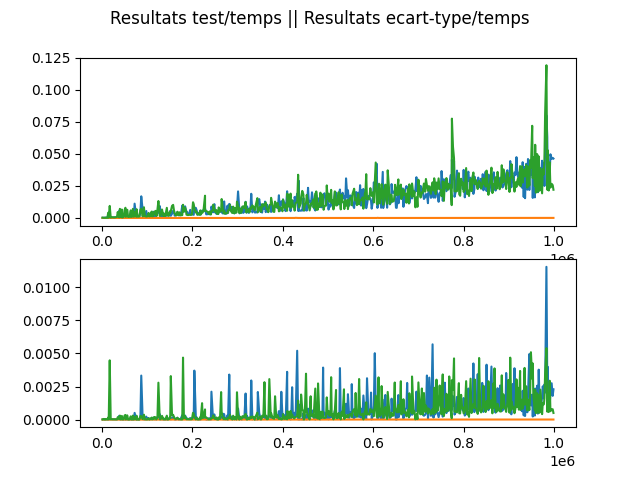
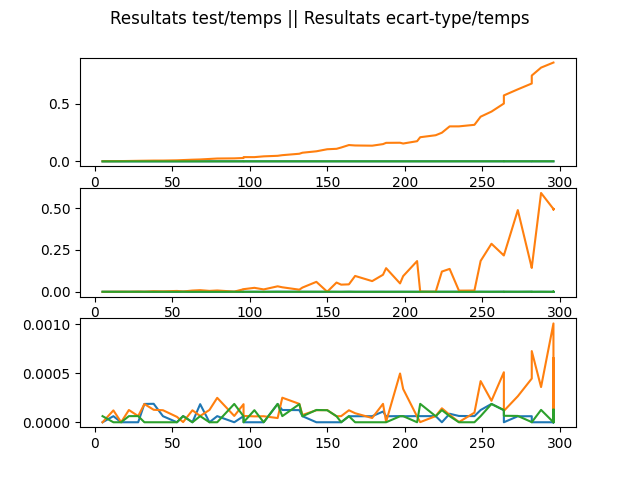
Affichages lissés
Les affichages sont lissés, paramètres de lissages dans la dernière partie de main.py
Pour l'instant j'utilise ma fonction essaisucc, mais les deux versions sont interchangeable

diff --git a/main.py b/main.py
@@ -2,6 +2,7 @@
 import Arbre
 import constantes
 import time
+import copy
 import matplotlib.pyplot as plt
 
 A = Arbre.Arbre
@@ -61,6 +62,72 @@ def essaiSucc(a, N, solution=[]):
     return solution
 
 
+nmax = -1
+XList = []
+def essaissuccessifsOPT_exe2(M):
+    sumc = 0
+    X = [0, 0, 0, 0, 0, 0, 0, 0]
+    n = 0
+    #n défini le nombre de pièces utilisées pour arriver à la somme finale
+
+    def essaissuccessifsOPT(i, X, sumc, n):
+
+        global nmax
+        #print("entering function with values i =",i,', X=',X,", sumc = ",sumc,", n =",n,", nmax =",nmax)
+
+        #parcours de la liste euroTab par index :
+        if(sumc < M and i > 0):
+            #print("parcours en INDEX")
+            essaissuccessifsOPT(i-1, X, sumc, n)
+        else:
+            #soit nous sommes arrivés à la valeur recherchée
+            #soit nous sommes arrivés au bout de la liste euroTab
+            #soit aucun des deux cas précédents : on peut continuer à incrémenter le nombre de piece d'indice i
+            #il faut respectivement =1= mettre à jour nmax
+            if (sumc == M and (nmax > n or nmax == -1)):
+                nmax = n
+                #print("mise à jour de nmax avec nmax=",nmax)
+                #print("===================================== resultat trouvé : X=", X)
+                global XList
+                XList.append(X)
+            #else:
+                #print("reached end of INDEX tree with i=",i,', X=',X,", sumc = ",sumc,", n =",n,", nmax =",nmax,"->")
+
+        #=2= incrémenter le nombre de piece
+
+        #print("reaching VALUE PRE incrementation part i =",i,', X=',X,", sumc = ",sumc,", n =",n,", nmax =",nmax)
+        Y = copy.deepcopy(X)
+        Y[i] += 1
+        sumc += euroTab[i]
+        n += 1
+        #print("reaching VALUE POST incrementation part i =",i,', X=',Y,", sumc = ",sumc,", n =",n,", nmax =",nmax)
+        #avant de d'appeler récursivement la fonction, on vérifie les deux conditions suivantes
+        if(sumc < M and (nmax > n or nmax == -1)):
+            #print("parcours en VALUE")
+            essaissuccessifsOPT(i, Y, sumc, n)
+        else:
+            #soit nous sommes arrivés à la valeur recherchée
+            #soit nous sommes arrivés à n = nmax
+            #soit les deux cas précédents sont réalisés : on peut ajouter X à la liste des solutions
+            if (sumc == M and (nmax > n or nmax == -1)):
+                nmax = n
+                #print("mise à jour de nmax avec nmax=",nmax)
+                #print("!!!!!!!!!!!!!!!!!!! resultat trouvé : X=",Y)
+                XList.append(Y)
+            #else :
+                #print("reached end of VALUE tree with i=",i,', X=',Y,", sumc = ",sumc,", n =",n,", nmax =",nmax,"++")
+
+    essaissuccessifsOPT(len(euroTab)-1, X, sumc, n)
+    #print("M=",M)
+    global XList
+    global nmax
+    #print("XLIST =", XList)
+    nmax = -1
+    XListRes = copy.deepcopy(XList)
+    XList = []
+    return XListRes
+
+
 def dynamique(aRendre):
 
     pieces = [0]*len(euroTab)
@@ -109,16 +176,24 @@ def glouton(aRendre):
 import math
 if __name__ == "__main__":
 
+    k = 0
     TempsCalcGlob = []
-    nb_test = 20
-    Nb_Valeurs = 500
-    Val_Max = 1000000
+    nb_test = 4 #Nombre de fois qu'un meme calcul sera effectué, pour palier au problemes des processus en arrière plan à impacte aléatoire sur les durées de calcul
+    Nb_Valeurs = 50 #Nombres de valeurs testées, entre 0 et la valeur max choisie
+    Val_Max = 300 #Valeur max choisie
+    flatfact = 0.3  # taille de l'intervalle sur lequel on calcul la moyenne pour lissage, 1 = lissage sur l'ensemble de la courbe
+
+    t_Int = int(max(math.floor(flatfact*Nb_Valeurs*0.5), 1))
 
     Vals = []
     for k in range(Nb_Valeurs):
         bornem = math.floor((Val_Max/Nb_Valeurs))
         Vals.append(random.randint(k*bornem,(k+1)*bornem))
-    print("Valeurs Test=", Vals)
+
+    for k in range(int(t_Int)):
+        Vals.append(Vals[-1])
+
+    #Remplissage d'une liste TempsCalcGlobal avec le resultat de chacun des test réalisé, pour chaque algo, pour chaque valeur à rendre, pour toute les itérations
     
     for k in range (nb_test) :
         
@@ -130,9 +205,8 @@ if __name__ == "__main__":
             print(glouton(testvalue))
             TempsCalc[0].append(time.time()-t)
             t = time.time()
-            #sol = essaiSucc(A(0, [], -1), testvalue)
+            print(essaissuccessifsOPT_exe2(testvalue))
             TempsCalc[1].append(time.time()-t)
-            #print(sol)
             t = time.time()
             print(dynamique(testvalue))
             TempsCalc[2].append(time.time()-t)
@@ -142,6 +216,8 @@ if __name__ == "__main__":
 
     TempsMoyens = [[0]*len(Vals),[0]*len(Vals),[0]*len(Vals)]
     EcartType = [[0]*len(Vals), [0]*len(Vals), [0]*len(Vals)]
+
+    #Construction d'une liste de sommes de résultats de chaque itération (pour construire la moyenne ensuite)
     
     for k in range(len(TempsCalcGlob)):
         #Parcours des tests pour une liste aléatoire de quantité de monnaie à rendre donnée
@@ -153,11 +229,15 @@ if __name__ == "__main__":
 
     #print("TempsMoyens pre moyennage=",TempsMoyens)
 
+    #Construction de la moyenne
+
     for k in range(len(TempsMoyens)):
         for i in range(len(TempsMoyens[0])):
             TempsMoyens[k][i] = TempsMoyens[k][i]/nb_test
 
-    #print("TempsMoyens final =",TempsMoyens)
+    print("TempsMoyens final =",TempsMoyens)
+
+    #Construction de la liste des écart type
 
     for k in range(len(TempsCalcGlob)):
         #Parcours des tests pour une liste aléatoire de quantité de monnaie à rendre donnée
@@ -172,14 +252,57 @@ if __name__ == "__main__":
             EcartType[k][i] = (EcartType[k][i]/nb_test)
     
     print("ecart type par valeur = ",EcartType)
-    print("Valeurs Test=", Vals)
 
-    
-    fig, axs = plt.subplots(2)
+    #Lissage des résultats obtenus pour une meilleure présentation
+
+    TempsMoyensLissage = [[0]*len(Vals), [0]*len(Vals), [0]*len(Vals)]
+    TempsMoyensLissageSliced = []
+
+    for k_test in range(len(TempsMoyens)):
+
+        for k_v_temps in range(len(TempsMoyens[k_test])):
+
+            #print("k_v_temps =",k_v_temps)
+
+            Int_Local = [TempsMoyens[k_test][k_v_temps]]
+            tmp = k_v_temps-1
+            while(tmp>=0 and tmp >= k_v_temps-t_Int):
+                Int_Local.insert(0, TempsMoyens[k_test][tmp])
+                #print("tmp dans boucle neg =", tmp)
+                tmp-=1
+                
+            tmp = k_v_temps+1
+
+            while(tmp < len(TempsMoyens[0]) and tmp <= k_v_temps+t_Int):
+                Int_Local.append(TempsMoyens[k_test][tmp])
+                #print("tmp dans boucle pos =", tmp)
+                tmp+=1
+
+            moy = sum(Int_Local)/t_Int
+
+            TempsMoyensLissage[k_test][k_v_temps] = moy
+
+        s = slice(0, len(Vals)-t_Int)
+        TempsMoyensLissageSliced.append(TempsMoyensLissage[k_test][s])
+
+    s2 = slice(0, len(Vals)-t_Int)
+    ValsSliced = copy.deepcopy(Vals[s])
+
+    print("lissage =",TempsMoyensLissage)
+    print("lissageSlice =", TempsMoyensLissageSliced)
+
+    print("t_Int =", t_Int)
+    print("Valeurs Test=", Vals)
+    print("ValsSliced =", ValsSliced)
+
+    fig, axs = plt.subplots(3)
     fig.suptitle('Resultats test/temps || Resultats ecart-type/temps')
     for k in range(len(TempsMoyens)):
-        axs[0].plot(Vals, TempsMoyens[k])
+        axs[0].plot(ValsSliced, TempsMoyensLissageSliced[k])
     for k in range(len(TempsMoyens)):
-        axs[1].plot(Vals, EcartType[k])
-
-    fig.savefig("mygraph.png")
+        axs[1].plot(Vals, TempsMoyens[k])
+    for k in range(len(TempsMoyens)):
+        axs[2].plot(Vals, EcartType[k])
+    #filename = "graph&nb_test="+str(nb_test)+"&Nb_Valeurs="+str(Nb_Valeurs)+"&ValMax="+str(Val_Max)+"&flatfact="+str(flatfact)+".png"
+    filename = "mygraph.png"
+    fig.savefig(filename)

diff --git a/essaisSuccOPT_romain.py b/essaisSuccOPT_romain.py
@@ -91,11 +91,12 @@ def essaissuccessifsOPT_exe(M):
 
     return essaissuccessifsOPT(0, X, somcour, n)
 
+
+#euroTabOpt = euroTab.reverse()
+
 nmax = -1
 XList = []
-#euroTabOpt = euroTab.reverse()
 def essaissuccessifsOPT_exe2(M):
-
     sumc = 0
     X = [0, 0, 0, 0, 0, 0, 0, 0]
     n = 0
@@ -104,12 +105,12 @@ def essaissuccessifsOPT_exe2(M):
     def essaissuccessifsOPT(i, X, sumc, n):
         
         global nmax
-        print("entering function with values i =",i,', X=',X,", sumc = ",sumc,", n =",n,", nmax =",nmax)
+        #print("entering function with values i =",i,', X=',X,", sumc = ",sumc,", n =",n,", nmax =",nmax)
         
 
         #parcours de la liste euroTab par index :
         if(sumc<M and i>0):
-            print("parcours en INDEX")
+            #print("parcours en INDEX")
             essaissuccessifsOPT(i-1,X,sumc,n)
         else:
             #soit nous sommes arrivés à la valeur recherchée
@@ -118,13 +119,13 @@ def essaissuccessifsOPT_exe2(M):
             #il faut respectivement =1= mettre à jour nmax
             if (sumc == M and (nmax > n or nmax == -1)):
                 nmax = n
-                print("mise à jour de nmax avec nmax=",nmax)
-                print("===================================== resultat trouvé : X=", X)
+                #print("mise à jour de nmax avec nmax=",nmax)
+                #print("===================================== resultat trouvé : X=", X)
                 global XList
                 XList.append(X)
-            else:
-                print("reached end of INDEX tree with i=",i,', X=',X,", sumc = ",sumc,", n =",n,", nmax =",nmax,"->")
-
+            #else:
+                #print("reached end of INDEX tree with i=",i,', X=',X,", sumc = ",sumc,", n =",n,", nmax =",nmax,"->")
+                
         #=2= incrémenter le nombre de piece
 
         #print("reaching VALUE PRE incrementation part i =",i,', X=',X,", sumc = ",sumc,", n =",n,", nmax =",nmax)
@@ -135,7 +136,7 @@ def essaissuccessifsOPT_exe2(M):
         #print("reaching VALUE POST incrementation part i =",i,', X=',Y,", sumc = ",sumc,", n =",n,", nmax =",nmax)
         #avant de d'appeler récursivement la fonction, on vérifie les deux conditions suivantes
         if(sumc<M and (nmax>n or nmax==-1)):
-            print("parcours en VALUE")
+            #print("parcours en VALUE")
             essaissuccessifsOPT(i,Y,sumc,n)
         else:
             #soit nous sommes arrivés à la valeur recherchée
@@ -143,11 +144,12 @@ def essaissuccessifsOPT_exe2(M):
             #soit les deux cas précédents sont réalisés : on peut ajouter X à la liste des solutions
             if (sumc == M and (nmax > n or nmax == -1)):
                 nmax = n
-                print("mise à jour de nmax avec nmax=",nmax)
-                print("!!!!!!!!!!!!!!!!!!! resultat trouvé : X=",Y)
+                #print("mise à jour de nmax avec nmax=",nmax)
+                #print("!!!!!!!!!!!!!!!!!!! resultat trouvé : X=",Y)
                 XList.append(Y)
-            else :
-                print("reached end of VALUE tree with i=",i,', X=',Y,", sumc = ",sumc,", n =",n,", nmax =",nmax,"++")
+            #else :
+                #print("reached end of VALUE tree with i=",i,', X=',Y,", sumc = ",sumc,", n =",n,", nmax =",nmax,"++")
+                
 
     essaissuccessifsOPT(len(euroTab)-1, X, sumc, n)
     print("XLIST =",XList)
@@ -155,4 +157,5 @@ def essaissuccessifsOPT_exe2(M):
     
 
 
-essaissuccessifsOPT_exe2(254)
+essaissuccessifsOPT_exe2(504)
+essaissuccessifsOPT_exe2(200)

diff --git a/Essais.py b/Essais.py
@@ -260,5 +260,5 @@ def essaissuccessifsOPT_exe(M):
 
 if __name__ == "__main__":
 
-    sol = essaiSucc(A(0, [], -1), 1404, [])
+    sol = essaiSucc(A(0, [], -1), 1025, [])
     
